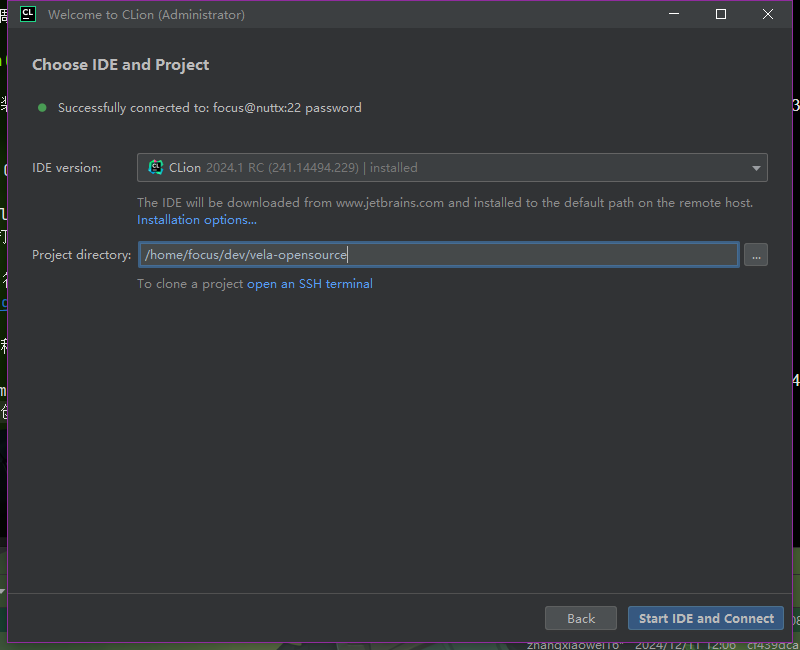
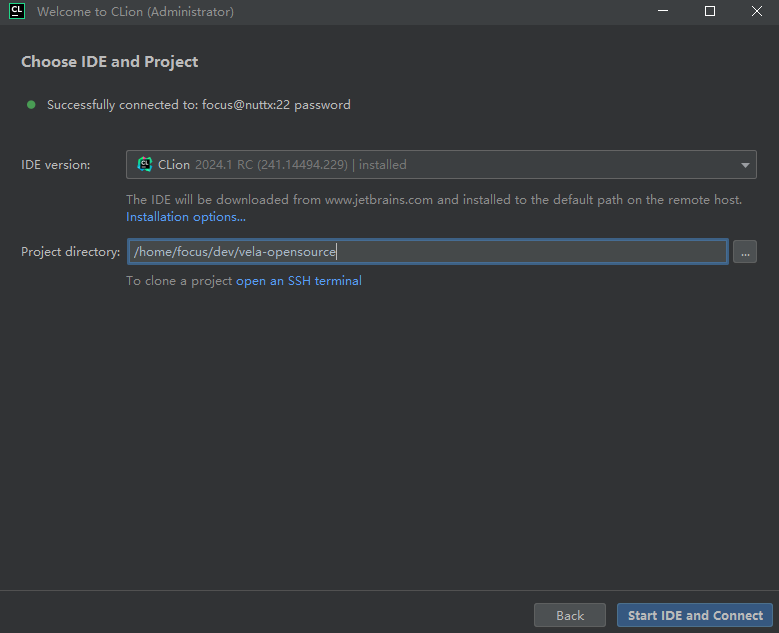
Modify the Quick Start

diff --git a/Getting_Started/Debugging_Vela_with_Vela_Emulator.md b/Getting_Started/Debugging_Vela_with_Vela_Emulator.md
@@ -197,3 +197,50 @@ Exit GDB:
 6. Start a debug session.
 
    To start a debug session, use the “Configuration” drop-down list in the Run and Debug view and select the “Debug openvela” configuration.After setting the startup configuration, use `F5` to start a debug session.
+
+## Use Clion(Remote Debug)
+
+1. download clion from here (recommend newer version) https://www.jetbrains.com/clion/
+
+2. Config SSH Configurations
+
+   click `Customize | All Settings` to menu from Welcome page
+   (if you already open a project click `File | Close Project` back to welcome page)
+
+   click the `+` button and fill the ssh info (then check) like this
+   ![003.png](images/003.png)
+
+3. Config and Choose Remote Project
+
+   On Welcome page select `Remote Development | SSH | New Project`
+   select the ssh connection we config before and click the button `Check Connection and Continute`
+   choose ide then select the project when we clone before
+   then click `Start IDE and Connect`
+
+   ![004.png](images/004.png)
+
+   wait for download finish and `Authenticate` like this
+   ![005.png](images/005.png)
+
+4. Create Debug Configuration
+
+   click `Add Configuration | Remote GDB Server` and config like this
+   ![006.png](images/006.png)
+
+   Target can be created with default(just a target)
+   ![007.png](images/007.png)
+
+5. Launch openvela Emulator with the `-s` and `-S` options to use gdb.
+
+    ```
+    ./emulator.sh vela -qemu -S -s
+    ```
+
+6. Start a debug session.
+
+   click debug icon then we can debug
+   ![008.png](images/008.png)
+
+   (you would get the confirmation when you do the first debug)
+   ![009.png](images/009.png)
+   ![010.png](images/010.png)
